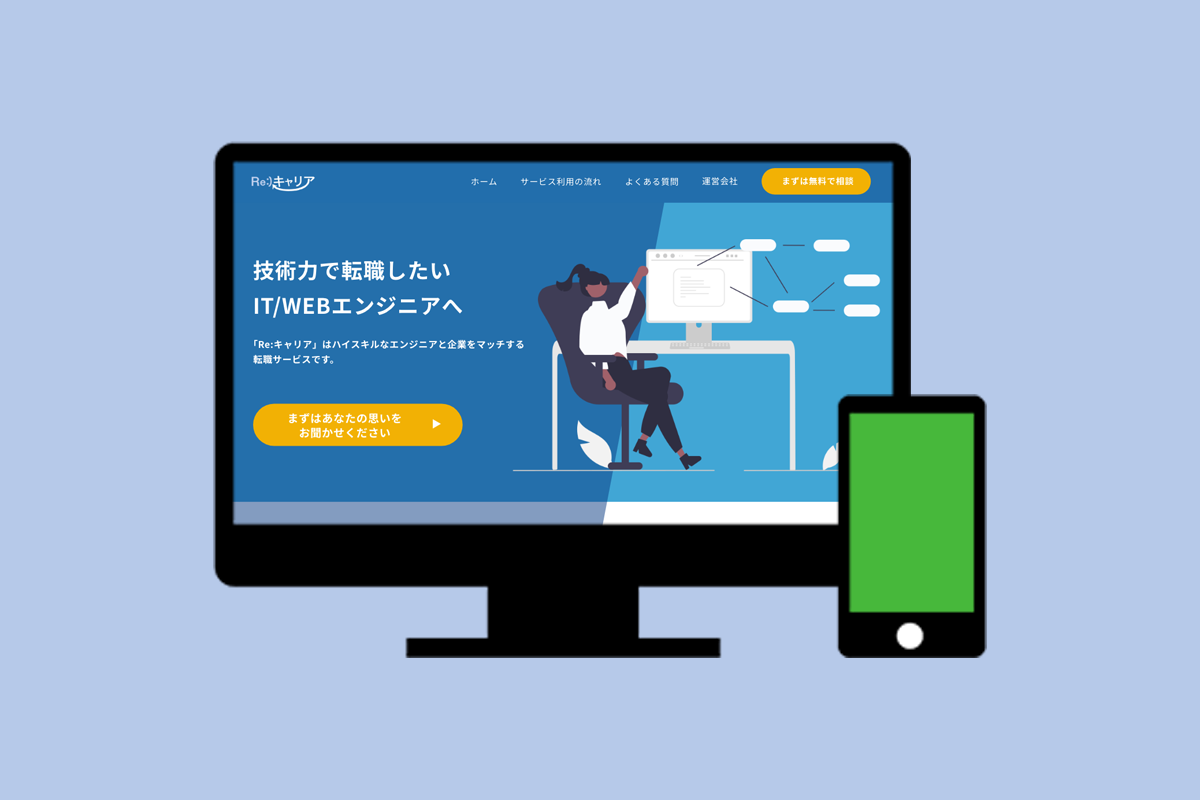
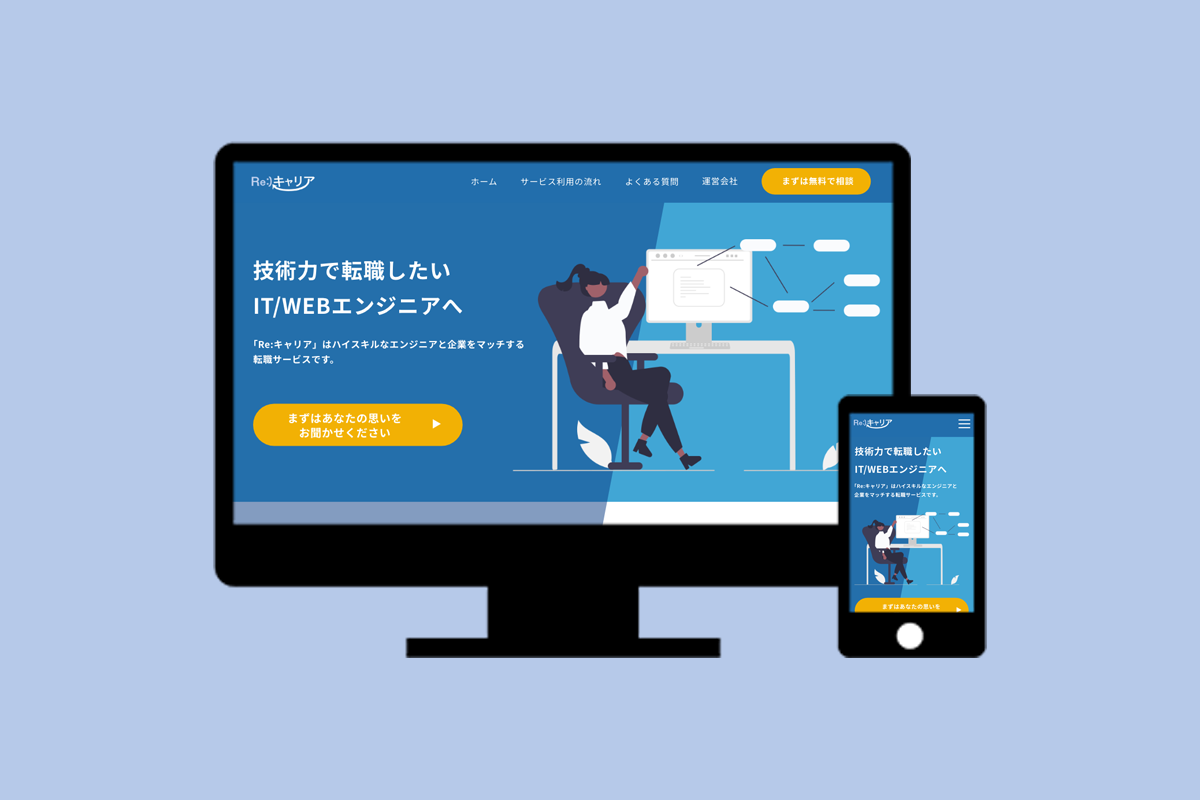
タイトル文字アニメーション追加

Changed region(s): [[0.7092, 0.5, 0.8325, 0.7812]]

diff --git a/works-2.html b/works-2.html
@@ -35,7 +35,19 @@
     <main class="content">
       <!-- title -->
       <hgroup class="content-title">
-        <span>Works</span>
+        <svg id="WorksTitle" xmlns="http://www.w3.org/2000/svg" width="395.157" height="122.187"
+          viewBox="0 0 395.157 122.187">
+          <path class="cls-1"
+            d="M91.844,16.81h21.421l-29.312,86.309h-15.284l-11.524-43.843-11.149,43.843h-15.408L1.527,16.81h21.17l15.908,51.611,10.647-39.334h16.161l10.523,39.584,15.908-51.86Z" />
+          <path class="cls-1"
+            d="M110.89,73.932c0-18.539,15.031-30.815,31.691-30.815s31.818,12.276,31.818,30.815c0,18.415-15.157,30.691-31.818,30.691s-31.691-12.276-31.691-30.691ZM155.483,73.932c0-8.017-5.762-13.654-12.902-13.654s-12.902,5.637-12.902,13.654,5.762,13.529,12.902,13.529,12.902-5.512,12.902-13.529Z" />
+          <path class="cls-1"
+            d="M231.022,44.87l-4.384,17.663c-3.633-2.13-6.514-2.255-8.394-2.255-7.265,0-13.278,6.138-13.278,23.424v19.417h-18.54v-58.5h18.289v12.402c3.383-9.645,10.397-13.905,17.537-13.905,2.757,0,5.762.251,8.769,1.753Z" />
+          <path class="cls-1"
+            d="M298.292,103.119h-22.549l-18.038-23.8v23.8h-18.54V12.802h18.54v48.228l12.527-16.41h23.299l-22.047,25.931,26.808,32.569Z" />
+          <path class="cls-1"
+            d="M301.55,84.204h17.537c0,2.881,2.129,6.264,7.391,6.264,3.882,0,7.14-2.004,7.14-4.761,0-1.879-1.378-2.756-5.762-3.758l-7.642-2.004c-17.162-4.634-17.663-14.406-17.663-19.291,0-8.643,9.771-17.537,23.927-17.537,11.022,0,24.426,5.136,24.176,19.792h-17.537c0-3.758-2.63-5.637-6.264-5.637-3.132,0-5.762,1.503-5.762,4.009,0,2.254,2.004,3.507,5.012,4.258l10.146,2.757c14.656,4.009,15.908,13.278,15.908,17.286,0,12.903-13.402,19.042-25.177,19.042-13.029,0-25.43-7.14-25.43-20.419Z" />
+        </svg>
         <span>制作物</span>
       </hgroup>
       <!-- /title -->
@@ -79,6 +91,7 @@
           <h2 class="title">Design<span class="title-sub">デザイン</span></h2>
           <p class="design-img">
             <img src="img/works-detail/works-2.png" alt="">
+            <img src="img/works-detail/works-2_sp.png" alt="">
           </p>
         </div>
       </article>

diff --git a/works-1.html b/works-1.html
@@ -35,7 +35,19 @@
     <main class="content">
       <!-- title -->
       <hgroup class="content-title">
-        <span>Works</span>
+        <svg id="WorksTitle" xmlns="http://www.w3.org/2000/svg" width="395.157" height="122.187"
+          viewBox="0 0 395.157 122.187">
+          <path class="cls-1"
+            d="M91.844,16.81h21.421l-29.312,86.309h-15.284l-11.524-43.843-11.149,43.843h-15.408L1.527,16.81h21.17l15.908,51.611,10.647-39.334h16.161l10.523,39.584,15.908-51.86Z" />
+          <path class="cls-1"
+            d="M110.89,73.932c0-18.539,15.031-30.815,31.691-30.815s31.818,12.276,31.818,30.815c0,18.415-15.157,30.691-31.818,30.691s-31.691-12.276-31.691-30.691ZM155.483,73.932c0-8.017-5.762-13.654-12.902-13.654s-12.902,5.637-12.902,13.654,5.762,13.529,12.902,13.529,12.902-5.512,12.902-13.529Z" />
+          <path class="cls-1"
+            d="M231.022,44.87l-4.384,17.663c-3.633-2.13-6.514-2.255-8.394-2.255-7.265,0-13.278,6.138-13.278,23.424v19.417h-18.54v-58.5h18.289v12.402c3.383-9.645,10.397-13.905,17.537-13.905,2.757,0,5.762.251,8.769,1.753Z" />
+          <path class="cls-1"
+            d="M298.292,103.119h-22.549l-18.038-23.8v23.8h-18.54V12.802h18.54v48.228l12.527-16.41h23.299l-22.047,25.931,26.808,32.569Z" />
+          <path class="cls-1"
+            d="M301.55,84.204h17.537c0,2.881,2.129,6.264,7.391,6.264,3.882,0,7.14-2.004,7.14-4.761,0-1.879-1.378-2.756-5.762-3.758l-7.642-2.004c-17.162-4.634-17.663-14.406-17.663-19.291,0-8.643,9.771-17.537,23.927-17.537,11.022,0,24.426,5.136,24.176,19.792h-17.537c0-3.758-2.63-5.637-6.264-5.637-3.132,0-5.762,1.503-5.762,4.009,0,2.254,2.004,3.507,5.012,4.258l10.146,2.757c14.656,4.009,15.908,13.278,15.908,17.286,0,12.903-13.402,19.042-25.177,19.042-13.029,0-25.43-7.14-25.43-20.419Z" />
+        </svg>
         <span>制作物</span>
       </hgroup>
       <!-- /title -->

diff --git a/works-3.html b/works-3.html
@@ -35,7 +35,19 @@
     <main class="content">
       <!-- title -->
       <hgroup class="content-title">
-        <span>Works</span>
+        <svg id="WorksTitle" xmlns="http://www.w3.org/2000/svg" width="395.157" height="122.187"
+          viewBox="0 0 395.157 122.187">
+          <path class="cls-1"
+            d="M91.844,16.81h21.421l-29.312,86.309h-15.284l-11.524-43.843-11.149,43.843h-15.408L1.527,16.81h21.17l15.908,51.611,10.647-39.334h16.161l10.523,39.584,15.908-51.86Z" />
+          <path class="cls-1"
+            d="M110.89,73.932c0-18.539,15.031-30.815,31.691-30.815s31.818,12.276,31.818,30.815c0,18.415-15.157,30.691-31.818,30.691s-31.691-12.276-31.691-30.691ZM155.483,73.932c0-8.017-5.762-13.654-12.902-13.654s-12.902,5.637-12.902,13.654,5.762,13.529,12.902,13.529,12.902-5.512,12.902-13.529Z" />
+          <path class="cls-1"
+            d="M231.022,44.87l-4.384,17.663c-3.633-2.13-6.514-2.255-8.394-2.255-7.265,0-13.278,6.138-13.278,23.424v19.417h-18.54v-58.5h18.289v12.402c3.383-9.645,10.397-13.905,17.537-13.905,2.757,0,5.762.251,8.769,1.753Z" />
+          <path class="cls-1"
+            d="M298.292,103.119h-22.549l-18.038-23.8v23.8h-18.54V12.802h18.54v48.228l12.527-16.41h23.299l-22.047,25.931,26.808,32.569Z" />
+          <path class="cls-1"
+            d="M301.55,84.204h17.537c0,2.881,2.129,6.264,7.391,6.264,3.882,0,7.14-2.004,7.14-4.761,0-1.879-1.378-2.756-5.762-3.758l-7.642-2.004c-17.162-4.634-17.663-14.406-17.663-19.291,0-8.643,9.771-17.537,23.927-17.537,11.022,0,24.426,5.136,24.176,19.792h-17.537c0-3.758-2.63-5.637-6.264-5.637-3.132,0-5.762,1.503-5.762,4.009,0,2.254,2.004,3.507,5.012,4.258l10.146,2.757c14.656,4.009,15.908,13.278,15.908,17.286,0,12.903-13.402,19.042-25.177,19.042-13.029,0-25.43-7.14-25.43-20.419Z" />
+        </svg>
         <span>制作物</span>
       </hgroup>
       <!-- /title -->

diff --git a/works-4.html b/works-4.html
@@ -35,7 +35,19 @@
     <main class="content">
       <!-- title -->
       <hgroup class="content-title">
-        <span>Works</span>
+        <svg id="WorksTitle" xmlns="http://www.w3.org/2000/svg" width="395.157" height="122.187"
+          viewBox="0 0 395.157 122.187">
+          <path class="cls-1"
+            d="M91.844,16.81h21.421l-29.312,86.309h-15.284l-11.524-43.843-11.149,43.843h-15.408L1.527,16.81h21.17l15.908,51.611,10.647-39.334h16.161l10.523,39.584,15.908-51.86Z" />
+          <path class="cls-1"
+            d="M110.89,73.932c0-18.539,15.031-30.815,31.691-30.815s31.818,12.276,31.818,30.815c0,18.415-15.157,30.691-31.818,30.691s-31.691-12.276-31.691-30.691ZM155.483,73.932c0-8.017-5.762-13.654-12.902-13.654s-12.902,5.637-12.902,13.654,5.762,13.529,12.902,13.529,12.902-5.512,12.902-13.529Z" />
+          <path class="cls-1"
+            d="M231.022,44.87l-4.384,17.663c-3.633-2.13-6.514-2.255-8.394-2.255-7.265,0-13.278,6.138-13.278,23.424v19.417h-18.54v-58.5h18.289v12.402c3.383-9.645,10.397-13.905,17.537-13.905,2.757,0,5.762.251,8.769,1.753Z" />
+          <path class="cls-1"
+            d="M298.292,103.119h-22.549l-18.038-23.8v23.8h-18.54V12.802h18.54v48.228l12.527-16.41h23.299l-22.047,25.931,26.808,32.569Z" />
+          <path class="cls-1"
+            d="M301.55,84.204h17.537c0,2.881,2.129,6.264,7.391,6.264,3.882,0,7.14-2.004,7.14-4.761,0-1.879-1.378-2.756-5.762-3.758l-7.642-2.004c-17.162-4.634-17.663-14.406-17.663-19.291,0-8.643,9.771-17.537,23.927-17.537,11.022,0,24.426,5.136,24.176,19.792h-17.537c0-3.758-2.63-5.637-6.264-5.637-3.132,0-5.762,1.503-5.762,4.009,0,2.254,2.004,3.507,5.012,4.258l10.146,2.757c14.656,4.009,15.908,13.278,15.908,17.286,0,12.903-13.402,19.042-25.177,19.042-13.029,0-25.43-7.14-25.43-20.419Z" />
+        </svg>
         <span>制作物</span>
       </hgroup>
       <!-- /title -->

diff --git a/works-5.html b/works-5.html
@@ -35,7 +35,19 @@
     <main class="content">
       <!-- title -->
       <hgroup class="content-title">
-        <span>Works</span>
+        <svg id="WorksTitle" xmlns="http://www.w3.org/2000/svg" width="395.157" height="122.187"
+          viewBox="0 0 395.157 122.187">
+          <path class="cls-1"
+            d="M91.844,16.81h21.421l-29.312,86.309h-15.284l-11.524-43.843-11.149,43.843h-15.408L1.527,16.81h21.17l15.908,51.611,10.647-39.334h16.161l10.523,39.584,15.908-51.86Z" />
+          <path class="cls-1"
+            d="M110.89,73.932c0-18.539,15.031-30.815,31.691-30.815s31.818,12.276,31.818,30.815c0,18.415-15.157,30.691-31.818,30.691s-31.691-12.276-31.691-30.691ZM155.483,73.932c0-8.017-5.762-13.654-12.902-13.654s-12.902,5.637-12.902,13.654,5.762,13.529,12.902,13.529,12.902-5.512,12.902-13.529Z" />
+          <path class="cls-1"
+            d="M231.022,44.87l-4.384,17.663c-3.633-2.13-6.514-2.255-8.394-2.255-7.265,0-13.278,6.138-13.278,23.424v19.417h-18.54v-58.5h18.289v12.402c3.383-9.645,10.397-13.905,17.537-13.905,2.757,0,5.762.251,8.769,1.753Z" />
+          <path class="cls-1"
+            d="M298.292,103.119h-22.549l-18.038-23.8v23.8h-18.54V12.802h18.54v48.228l12.527-16.41h23.299l-22.047,25.931,26.808,32.569Z" />
+          <path class="cls-1"
+            d="M301.55,84.204h17.537c0,2.881,2.129,6.264,7.391,6.264,3.882,0,7.14-2.004,7.14-4.761,0-1.879-1.378-2.756-5.762-3.758l-7.642-2.004c-17.162-4.634-17.663-14.406-17.663-19.291,0-8.643,9.771-17.537,23.927-17.537,11.022,0,24.426,5.136,24.176,19.792h-17.537c0-3.758-2.63-5.637-6.264-5.637-3.132,0-5.762,1.503-5.762,4.009,0,2.254,2.004,3.507,5.012,4.258l10.146,2.757c14.656,4.009,15.908,13.278,15.908,17.286,0,12.903-13.402,19.042-25.177,19.042-13.029,0-25.43-7.14-25.43-20.419Z" />
+        </svg>
         <span>制作物</span>
       </hgroup>
       <!-- /title -->

diff --git a/works-6.html b/works-6.html
@@ -35,7 +35,19 @@
     <main class="content">
       <!-- title -->
       <hgroup class="content-title">
-        <span>Works</span>
+        <svg id="WorksTitle" xmlns="http://www.w3.org/2000/svg" width="395.157" height="122.187"
+          viewBox="0 0 395.157 122.187">
+          <path class="cls-1"
+            d="M91.844,16.81h21.421l-29.312,86.309h-15.284l-11.524-43.843-11.149,43.843h-15.408L1.527,16.81h21.17l15.908,51.611,10.647-39.334h16.161l10.523,39.584,15.908-51.86Z" />
+          <path class="cls-1"
+            d="M110.89,73.932c0-18.539,15.031-30.815,31.691-30.815s31.818,12.276,31.818,30.815c0,18.415-15.157,30.691-31.818,30.691s-31.691-12.276-31.691-30.691ZM155.483,73.932c0-8.017-5.762-13.654-12.902-13.654s-12.902,5.637-12.902,13.654,5.762,13.529,12.902,13.529,12.902-5.512,12.902-13.529Z" />
+          <path class="cls-1"
+            d="M231.022,44.87l-4.384,17.663c-3.633-2.13-6.514-2.255-8.394-2.255-7.265,0-13.278,6.138-13.278,23.424v19.417h-18.54v-58.5h18.289v12.402c3.383-9.645,10.397-13.905,17.537-13.905,2.757,0,5.762.251,8.769,1.753Z" />
+          <path class="cls-1"
+            d="M298.292,103.119h-22.549l-18.038-23.8v23.8h-18.54V12.802h18.54v48.228l12.527-16.41h23.299l-22.047,25.931,26.808,32.569Z" />
+          <path class="cls-1"
+            d="M301.55,84.204h17.537c0,2.881,2.129,6.264,7.391,6.264,3.882,0,7.14-2.004,7.14-4.761,0-1.879-1.378-2.756-5.762-3.758l-7.642-2.004c-17.162-4.634-17.663-14.406-17.663-19.291,0-8.643,9.771-17.537,23.927-17.537,11.022,0,24.426,5.136,24.176,19.792h-17.537c0-3.758-2.63-5.637-6.264-5.637-3.132,0-5.762,1.503-5.762,4.009,0,2.254,2.004,3.507,5.012,4.258l10.146,2.757c14.656,4.009,15.908,13.278,15.908,17.286,0,12.903-13.402,19.042-25.177,19.042-13.029,0-25.43-7.14-25.43-20.419Z" />
+        </svg>
         <span>制作物</span>
       </hgroup>
       <!-- /title -->

diff --git a/css/style.css b/css/style.css
@@ -478,16 +478,7 @@ img {
   display: flex;
 }
 
-.content-title span:nth-of-type(1) {
-  font-size: 6rem;
-  color: #fff;
-  text-shadow: 1px 1px 0 #000, -1px -1px 0 #000,
-    -1px 1px 0 #000, 1px -1px 0 #000,
-    0px 1px 0 #000, 0-1px 0 #000,
-    -1px 0 0 #000, 1px 0 0 #000;
-}
-
-.content-title span:nth-of-type(2) {
+.content-title span {
   font-size: 2rem;
   margin-left: 3rem;
   display: flex;
@@ -504,6 +495,70 @@ img {
   display: flex;
   align-items: center;
 } */
+
+/* #svgpath {
+  stroke-dasharray: 185;
+  animation: line-anim 5s infinite;
+  fill: none;
+  stroke: #000;
+  stroke-width: 1px;
+  stroke-linecap: round;
+}
+
+@keyframes line-anim {
+  0% {
+    stroke-dashoffset: 185;
+  }
+
+  100% {
+    stroke-dashoffset: 0px;
+  }
+} */
+
+/*--------------------------------
+ タイトル文字アニメーション
+---------------------------------*/
+path {
+  fill: none;
+  stroke: #333;
+  stroke-dasharray: 2000;
+  stroke-dashoffset: 0;
+  stroke-width: 1;
+  -webkit-animation: logo 5s ease-in forwards;
+  animation: logo 5s ease-in forwards;
+}
+
+@-webkit-keyframes logo {
+  0% {
+    stroke-dashoffset: 2000;
+    fill: transparent;
+  }
+
+  50% {
+    fill: transparent;
+  }
+
+  100% {
+    stroke-dashoffset: 0;
+    fill: #333;
+  }
+}
+
+@keyframes logo {
+  0% {
+    stroke-dashoffset: 2000;
+    fill: transparent;
+  }
+
+  50% {
+    fill: transparent;
+  }
+
+  100% {
+    stroke-dashoffset: 0;
+    fill: #333;
+  }
+}
 
 
 /*--------------------------------
@@ -1009,11 +1064,7 @@ img {
     margin: 0.8rem;
   }
 
-  .content-title span:nth-of-type(1) {
-    font-size: 4rem;
-  }
-
-  .content-title span:nth-of-type(2) {
+  .content-title span {
     font-size: 1rem;
     align-items: center;
     margin-left: 1.5rem;

diff --git a/about.html b/about.html
@@ -35,8 +35,19 @@
     <main class="content">
       <!-- title -->
       <hgroup class="content-title">
-        <span>About</span>
-        <!-- <img src="img/about.svg" height="60" alt="about"> -->
+        <svg id="AboutTitle" xmlns="http://www.w3.org/2000/svg" width="352.157" height="108.631"
+          viewBox="0 0 352.157 108.631">
+          <path class="cls-1"
+            d="M64.27,91.042l-6.514-20.084h-30.319l-6.389,20.084H0L31.947,4.554h21.424l31.822,86.488h-20.923ZM32.824,53.886h19.419l-9.772-30.502-9.647,30.502Z" />
+          <path class="cls-1"
+            d="M156.863,61.668c0,18.955-13.782,30.881-28.439,30.881-6.014,0-13.782-2.385-18.041-8.034v6.527h-18.542V.537h18.542v38.286c4.26-5.523,12.027-7.908,18.041-7.908,14.658,0,28.439,11.799,28.439,30.754ZM138.071,61.668c0-7.406-6.265-13.557-13.531-13.557-7.016,0-13.531,6.025-13.531,13.557s6.39,13.682,13.531,13.682c7.266,0,13.531-6.275,13.531-13.682Z" />
+          <path class="cls-1"
+            d="M165.64,61.795c0-18.578,15.034-30.88,31.697-30.88s31.822,12.302,31.822,30.88c0,18.453-15.159,30.755-31.822,30.755s-31.697-12.302-31.697-30.755ZM210.24,61.795c0-8.034-5.762-13.683-12.903-13.683s-12.904,5.65-12.904,13.683,5.763,13.556,12.904,13.556,12.903-5.522,12.903-13.556Z" />
+          <path class="cls-1"
+            d="M280.404,32.421h18.543v58.622h-18.543v-10.043c-2.005,8.16-11.4,11.55-16.788,11.55-15.535,0-23.177-10.546-23.177-28.496v-31.633h18.543v30.503c0,9.038,5.387,12.426,10.148,12.426,4.885,0,11.274-2.634,11.274-12.426v-30.503Z" />
+          <path class="cls-1"
+            d="M351.32,32.421v14.059h-12.277v44.562h-18.543v-44.562h-10.648v-14.059h10.648V11.458h18.543v20.963h12.277Z" />
+        </svg>
         <span>わたしのこと</span>
       </hgroup>
       <!-- /title -->
